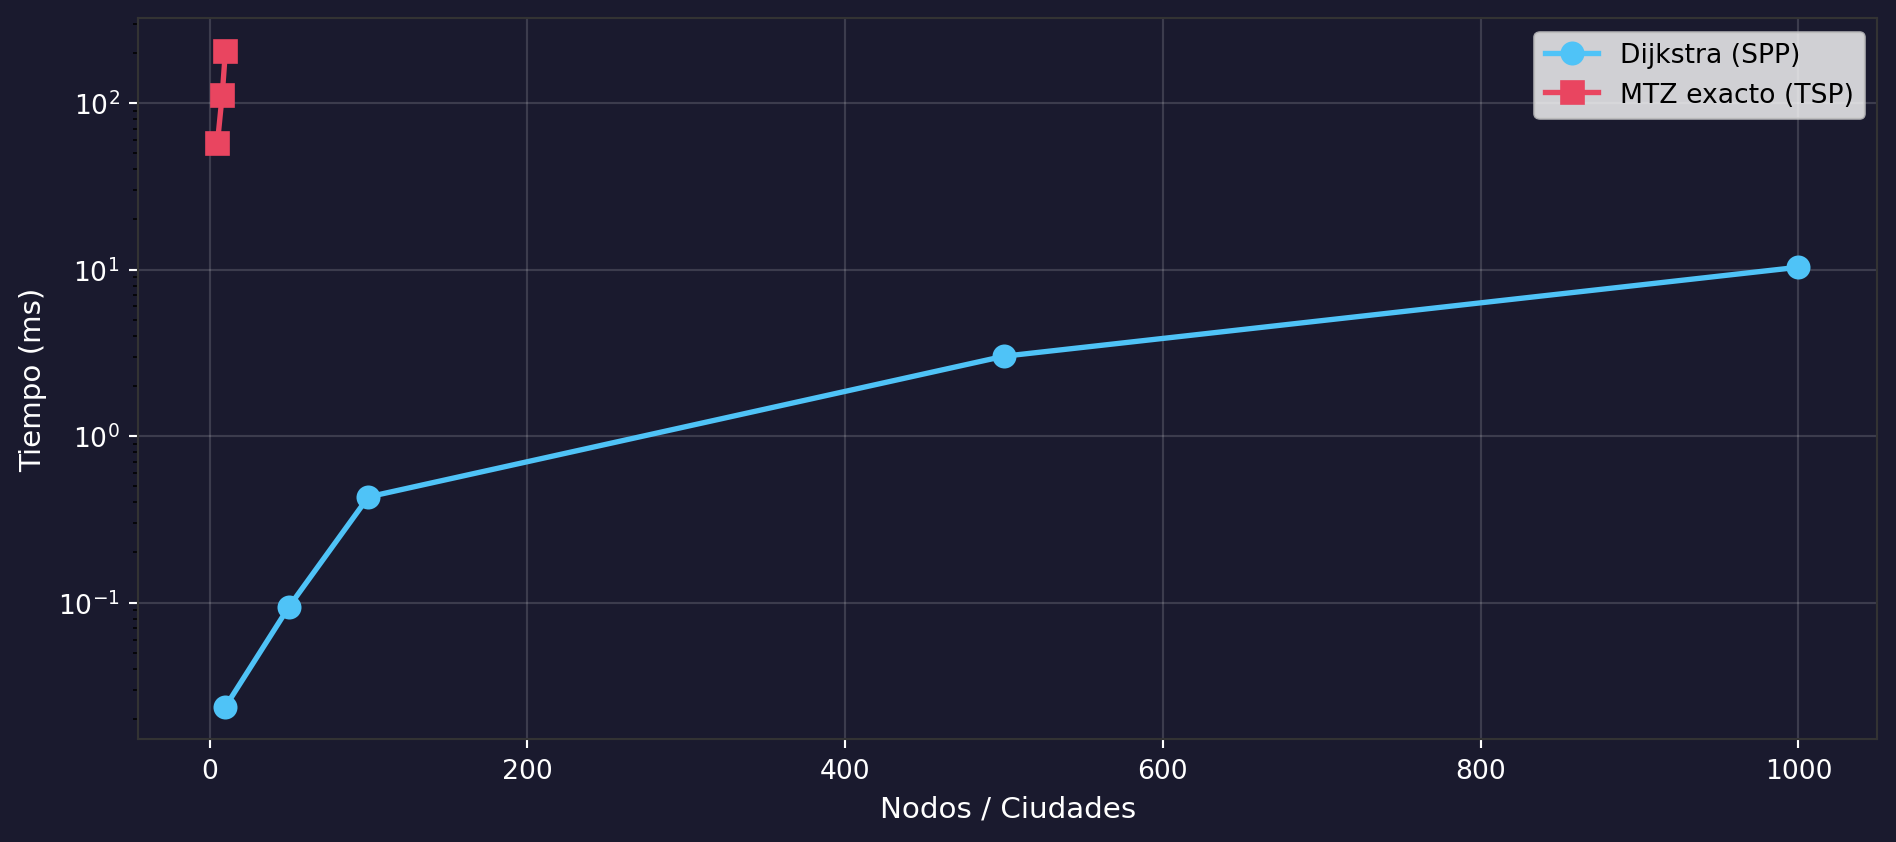
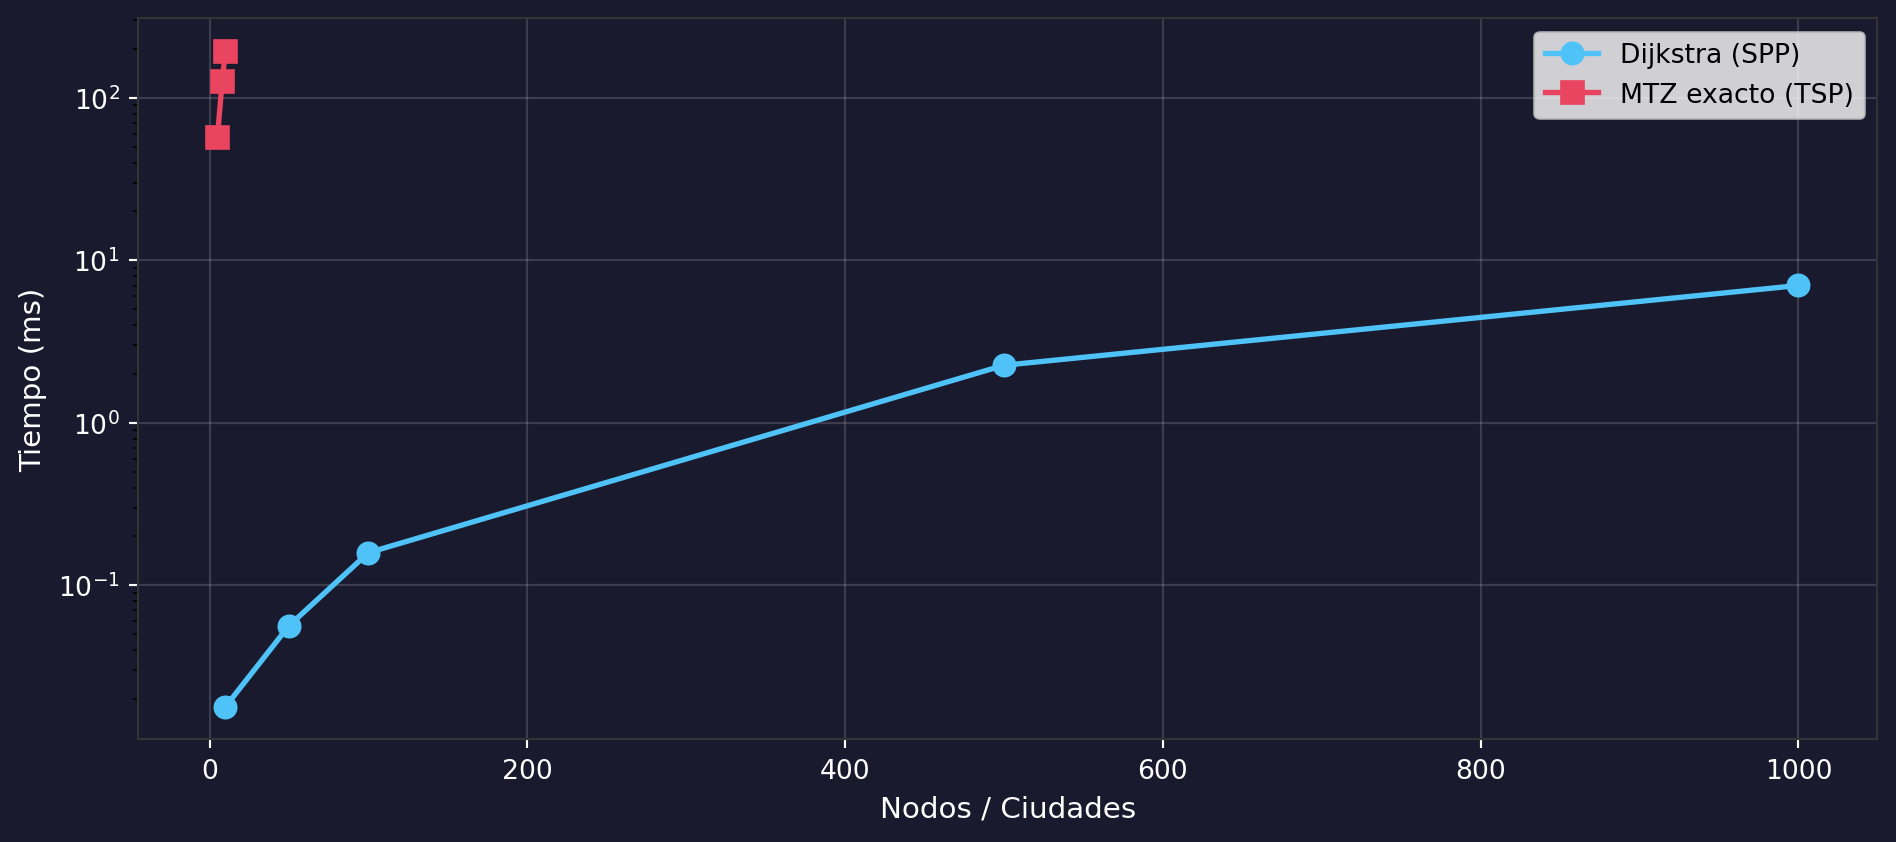
Built site for gh-pages

Changed region(s): [[0.0311, 0.2779, 0.9958, 0.8029], [0.0311, 0.0618, 0.8091, 0.1853], [0.0311, 0.6793, 0.0622, 0.7411]]

diff --git a/presentacion_parte2.html b/presentacion_parte2.html
@@ -280,7 +280,7 @@ Tópicos Especiales 1 · Doctorado en Informática
 </div>
 </div>
 </div><div class="column" style="width:45%;">
-<div id="eef235b7" class="cell" data-execution_count="1">
+<div id="75873e50" class="cell" data-execution_count="1">
 <div class="cell-output cell-output-display">
 <div class="quarto-figure quarto-figure-center">
 <figure>
@@ -362,7 +362,7 @@ Tópicos Especiales 1 · Doctorado en Informática
 </section>
 <section id="implementación-dijkstra" class="slide level2 center">
 <h2>Implementación — Dijkstra</h2>
-<div id="03a6967e" class="cell" data-execution_count="2">
+<div id="501c9f22" class="cell" data-execution_count="2">
 <div class="code-copy-outer-scaffold"><div class="sourceCode cell-code" id="cb1" data-code-line-numbers="|1-2|4-11|13-17"><pre class="sourceCode numberSource python number-lines code-with-copy"><code class="sourceCode python"><span id="cb1-1"><a aria-label="1"></a><span class="im">import</span> heapq</span>
 <span id="cb1-2"><a aria-label="2"></a></span>
 <span id="cb1-3"><a aria-label="3"></a><span class="kw">def</span> dijkstra(graph, source):</span>
@@ -385,7 +385,7 @@ Tópicos Especiales 1 · Doctorado en Informática
 </section>
 <section id="ejecución-paso-a-paso" class="slide level2 center">
 <h2>Ejecución paso a paso</h2>
-<div id="ada38e48" class="cell" data-execution_count="3">
+<div id="f89fb2c4" class="cell" data-execution_count="3">
 <details class="code-fold">
 <summary>Code</summary>
 <div class="code-copy-outer-scaffold"><div class="sourceCode cell-code" id="cb2"><pre class="sourceCode numberSource python number-lines code-with-copy"><code class="sourceCode python"><span id="cb2-1"><a aria-label="1"></a>graph <span class="op">=</span> {<span class="dv">1</span>:[(<span class="dv">2</span>,<span class="dv">7</span>),(<span class="dv">4</span>,<span class="dv">9</span>),(<span class="dv">5</span>,<span class="dv">14</span>)], <span class="dv">2</span>:[(<span class="dv">3</span>,<span class="dv">10</span>),(<span class="dv">5</span>,<span class="dv">15</span>)],</span>
@@ -421,7 +421,7 @@ Costo: 20
 </section>
 <section id="dijkstra-paso-a-paso-13" class="slide level2 smaller center">
 <h2>Dijkstra paso a paso (1/3)</h2>
-<div id="f0b581c0" class="cell" data-execution_count="4">
+<div id="1db4ac2b" class="cell" data-execution_count="4">
 <div class="cell-output cell-output-display">
 <div class="quarto-figure quarto-figure-center">
 <figure>
@@ -433,7 +433,7 @@ Costo: 20
 </section>
 <section id="dijkstra-paso-a-paso-23" class="slide level2 smaller center">
 <h2>Dijkstra paso a paso (2/3)</h2>
-<div id="41913d40" class="cell" data-execution_count="5">
+<div id="4632e1f9" class="cell" data-execution_count="5">
 <div class="cell-output cell-output-display">
 <div class="quarto-figure quarto-figure-center">
 <figure>
@@ -445,7 +445,7 @@ Costo: 20
 </section>
 <section id="dijkstra-paso-a-paso-33-resultado" class="slide level2 smaller center">
 <h2>Dijkstra paso a paso (3/3) — Resultado</h2>
-<div id="51a37dc5" class="cell" data-execution_count="6">
+<div id="7d86fd71" class="cell" data-execution_count="6">
 <div class="cell-output cell-output-display">
 <div class="quarto-figure quarto-figure-center">
 <figure>
@@ -457,7 +457,7 @@ Costo: 20
 </section>
 <section id="verificación-lp-con-pulp" class="slide level2 center">
 <h2>Verificación LP con PuLP</h2>
-<div id="b0943be9" class="cell" data-execution_count="7">
+<div id="2f86d336" class="cell" data-execution_count="7">
 <details class="code-fold">
 <summary>Code</summary>
 <div class="code-copy-outer-scaffold"><div class="sourceCode cell-code" id="cb4"><pre class="sourceCode numberSource python number-lines code-with-copy"><code class="sourceCode python"><span id="cb4-1"><a aria-label="1"></a><span class="im">from</span> pulp <span class="im">import</span> LpProblem, LpMinimize, LpVariable, LpContinuous, lpSum, value</span>
@@ -517,7 +517,7 @@ Coincide con Dijkstra: costo = 20</code></pre>
 <p>Primer abordaje computacional: <span class="citation" data-cites="dantzig1954"><a href="#/referencias" role="doc-biblioref" onclick="">[8]</a></span> (49 ciudades).</p>
 </div>
 </div><div class="column" style="width:45%;">
-<div id="3b716b1c" class="cell" data-execution_count="8">
+<div id="19e6a2da" class="cell" data-execution_count="8">
 <div class="cell-output cell-output-display">
 <div class="quarto-figure quarto-figure-center">
 <figure>
@@ -589,7 +589,7 @@ Coincide con Dijkstra: costo = 20</code></pre>
 </section>
 <section id="solución-exacta-mtz-con-pulp" class="slide level2 center">
 <h2>Solución exacta — MTZ con PuLP</h2>
-<div id="e9cde8fd" class="cell" data-execution_count="9">
+<div id="a686a375" class="cell" data-execution_count="9">
 <div class="code-copy-outer-scaffold"><div class="sourceCode cell-code" id="cb6" data-code-line-numbers="|1-4|6-11|13-18"><pre class="sourceCode numberSource python number-lines code-with-copy"><code class="sourceCode python"><span id="cb6-1"><a aria-label="1"></a><span class="im">from</span> pulp <span class="im">import</span> LpMaximize, LpBinary, LpStatus</span>
 <span id="cb6-2"><a aria-label="2"></a></span>
 <span id="cb6-3"><a aria-label="3"></a>dm <span class="op">=</span> np.array([[<span class="dv">0</span>,<span class="dv">10</span>,<span class="dv">15</span>,<span class="dv">20</span>,<span class="dv">6</span>],[<span class="dv">10</span>,<span class="dv">0</span>,<span class="dv">8</span>,<span class="dv">18</span>,<span class="dv">12</span>],</span>
@@ -617,7 +617,7 @@ Coincide con Dijkstra: costo = 20</code></pre>
 </section>
 <section id="resultado-tsp" class="slide level2 center">
 <h2>Resultado TSP</h2>
-<div id="a6458142" class="cell" data-execution_count="10">
+<div id="3ec5a655" class="cell" data-execution_count="10">
 <details class="code-fold">
 <summary>Code</summary>
 <div class="code-copy-outer-scaffold"><div class="sourceCode cell-code" id="cb8"><pre class="sourceCode numberSource python number-lines code-with-copy"><code class="sourceCode python"><span id="cb8-1"><a aria-label="1"></a>tour_r <span class="op">=</span> [<span class="dv">0</span>]<span class="op">;</span> cur <span class="op">=</span> <span class="dv">0</span></span>
@@ -639,7 +639,7 @@ Costo: 43</code></pre>
 </div>
 <div class="fragment">
 <p><strong>Verificación por enumeración exhaustiva:</strong></p>
-<div id="c4301aac" class="cell" data-execution_count="11">
+<div id="000aca29" class="cell" data-execution_count="11">
 <details class="code-fold">
 <summary>Code</summary>
 <div class="code-copy-outer-scaffold"><div class="sourceCode cell-code" id="cb10"><pre class="sourceCode numberSource python number-lines code-with-copy"><code class="sourceCode python"><span id="cb10-1"><a aria-label="1"></a><span class="im">import</span> itertools</span>
@@ -664,7 +664,7 @@ Peor tour: costo = 79</code></pre>
 </section>
 <section id="tsp-paso-a-paso-vecino-más-cercano" class="slide level2 smaller center">
 <h2>TSP paso a paso — Vecino más cercano</h2>
-<div id="38d985c5" class="cell" data-execution_count="12">
+<div id="e5ac5fa0" class="cell" data-execution_count="12">
 <div class="cell-output cell-output-display">
 <div class="quarto-figure quarto-figure-center">
 <figure>
@@ -676,7 +676,7 @@ Peor tour: costo = 79</code></pre>
 </section>
 <section id="tsp-paso-a-paso-mejora-2-opt" class="slide level2 smaller center">
 <h2>TSP paso a paso — Mejora 2-opt</h2>
-<div id="c2e30a42" class="cell" data-execution_count="13">
+<div id="78c5808a" class="cell" data-execution_count="13">
 <div class="cell-output cell-output-display">
 <div class="quarto-figure quarto-figure-center">
 <figure>
@@ -688,7 +688,7 @@ Peor tour: costo = 79</code></pre>
 </section>
 <section id="heurísticas-vecino-más-cercano-2-opt-croes1958" class="slide level2 center">
 <h2>Heurísticas: Vecino más cercano + 2-opt <span class="citation" data-cites="croes1958"><a href="#/referencias" role="doc-biblioref" onclick="">[14]</a></span></h2>
-<div id="73bdd979" class="cell" data-execution_count="14">
+<div id="7a71fcbb" class="cell" data-execution_count="14">
 <details class="code-fold">
 <summary>Code</summary>
 <div class="code-copy-outer-scaffold"><div class="sourceCode cell-code" id="cb12"><pre class="sourceCode numberSource python number-lines code-with-copy"><code class="sourceCode python"><span id="cb12-1"><a aria-label="1"></a><span class="kw">def</span> nn_tsp(dm, start<span class="op">=</span><span class="dv">0</span>):</span>
@@ -728,7 +728,7 @@ Gap NN: 23.3%  |  Gap 2-opt: 0.0%</code></pre>
 </section>
 <section id="escalabilidad-dijkstra-vs-mtz" class="slide level2 center">
 <h2>Escalabilidad: Dijkstra vs MTZ</h2>
-<div id="a654d748" class="cell" data-execution_count="15">
+<div id="743e056e" class="cell" data-execution_count="15">
 <details class="code-fold">
 <summary>Code</summary>
 <div class="code-copy-outer-scaffold"><div class="sourceCode cell-code" id="cb14"><pre class="sourceCode numberSource python number-lines code-with-copy"><code class="sourceCode python"><span id="cb14-1"><a aria-label="1"></a><span class="im">import</span> time</span>
@@ -805,7 +805,7 @@ Gap NN: 23.3%  |  Gap 2-opt: 0.0%</code></pre>
 </section>
 <section id="spp-vs-tsp-resumen" class="slide level2 center">
 <h2>SPP vs TSP — Resumen</h2>
-<div id="b04a9622" class="cell" data-execution_count="16">
+<div id="f372c8e2" class="cell" data-execution_count="16">
 <div class="cell-output cell-output-display">
 <div class="quarto-figure quarto-figure-center">
 <figure>

diff --git a/presentacion_parte1.html b/presentacion_parte1.html
@@ -293,7 +293,7 @@ Tópicos Especiales 1 · Doctorado en Informática
 <p>Un chatbot debe presentar como máximo <strong>4 preguntas</strong> de entre <strong>9 candidatas</strong> al inicio de la conversación.</p>
 </div>
 </div><div class="column" style="width:50%;">
-<div id="81b8d05f" class="cell" data-execution_count="1">
+<div id="6cbb3978" class="cell" data-execution_count="1">
 <div class="cell-output cell-output-display">
 <div class="quarto-figure quarto-figure-center">
 <figure>
@@ -421,7 +421,7 @@ Tópicos Especiales 1 · Doctorado en Informática
 </section>
 <section id="parámetros-del-modelo" class="slide level2 center">
 <h2>Parámetros del modelo</h2>
-<div id="4013d69d" class="cell" data-execution_count="2">
+<div id="111d3035" class="cell" data-execution_count="2">
 <div class="cell-output cell-output-display">
 <div class="quarto-figure quarto-figure-center">
 <figure>
@@ -545,7 +545,7 @@ Tópicos Especiales 1 · Doctorado en Informática
 </section>
 <section id="datos-y-utilidades" class="slide level2 center">
 <h2>Datos y utilidades</h2>
-<div id="e4252786" class="cell" data-execution_count="3">
+<div id="3917389a" class="cell" data-execution_count="3">
 <div class="code-copy-outer-scaffold"><div class="sourceCode cell-code" id="cb1" data-code-line-numbers="|3-5|7-10|13"><pre class="sourceCode numberSource python number-lines code-with-copy"><code class="sourceCode python"><span id="cb1-1"><a aria-label="1"></a><span class="im">import</span> numpy <span class="im">as</span> np</span>
 <span id="cb1-2"><a aria-label="2"></a></span>
 <span id="cb1-3"><a aria-label="3"></a>r <span class="op">=</span> np.array([<span class="fl">0.90</span>, <span class="fl">0.80</span>, <span class="fl">0.72</span>, <span class="fl">0.89</span>, <span class="fl">0.80</span>, <span class="fl">0.70</span>, <span class="fl">0.92</span>, <span class="fl">0.77</span>, <span class="fl">0.75</span>])</span>
@@ -576,7 +576,7 @@ Q9 (Objeti.): u = 0.6505</code></pre>
 </section>
 <section id="solución-lp-con-scipy.optimize.linprog" class="slide level2 center">
 <h2>Solución LP con <code>scipy.optimize.linprog</code></h2>
-<div id="a4cff4e9" class="cell" data-execution_count="4">
+<div id="d9eba922" class="cell" data-execution_count="4">
 <div class="code-copy-outer-scaffold"><div class="sourceCode cell-code" id="cb3" data-code-line-numbers="|1-2|4-12|14-15"><pre class="sourceCode numberSource python number-lines code-with-copy"><code class="sourceCode python"><span id="cb3-1"><a aria-label="1"></a><span class="im">from</span> scipy.optimize <span class="im">import</span> linprog</span>
 <span id="cb3-2"><a aria-label="2"></a>n, l_vec <span class="op">=</span> <span class="dv">9</span>, np.array([<span class="fl">0.75</span>,<span class="fl">0.55</span>,<span class="fl">0.70</span>,<span class="fl">0.80</span>,<span class="fl">0.45</span>,<span class="fl">0.40</span>,<span class="fl">1.00</span>,<span class="fl">0.65</span>,<span class="fl">0.50</span>])</span>
 <span id="cb3-3"><a aria-label="3"></a></span>
@@ -605,7 +605,7 @@ Q9 (Objeti.): u = 0.6505</code></pre>
 </section>
 <section id="solución-ilp-con-pulp" class="slide level2 center">
 <h2>Solución ILP con PuLP</h2>
-<div id="675aba03" class="cell" data-execution_count="5">
+<div id="8f473fa5" class="cell" data-execution_count="5">
 <div class="code-copy-outer-scaffold"><div class="sourceCode cell-code" id="cb5" data-code-line-numbers="|1-4|6-13|15-20"><pre class="sourceCode numberSource python number-lines code-with-copy"><code class="sourceCode python"><span id="cb5-1"><a aria-label="1"></a><span class="im">from</span> pulp <span class="im">import</span> (LpMaximize, LpProblem, LpVariable,</span>
 <span id="cb5-2"><a aria-label="2"></a>                  lpSum, value, LpBinary)</span>
 <span id="cb5-3"><a aria-label="3"></a></span>
@@ -641,7 +641,7 @@ Latencia: 2.60/2.80</code></pre>
 </section>
 <section id="utilidad-por-pregunta-solución-ilp" class="slide level2 center">
 <h2>Utilidad por pregunta — Solución ILP</h2>
-<div id="2bea9062" class="cell" data-execution_count="6">
+<div id="3e09edc2" class="cell" data-execution_count="6">
 <details class="code-fold">
 <summary>Code</summary>
 <div class="code-copy-outer-scaffold"><div class="sourceCode cell-code" id="cb7"><pre class="sourceCode numberSource python number-lines code-with-copy"><code class="sourceCode python"><span id="cb7-1"><a aria-label="1"></a><span class="im">import</span> matplotlib.pyplot <span class="im">as</span> plt</span>
@@ -690,7 +690,7 @@ Latencia: 2.60/2.80</code></pre>
 </section>
 <section id="comparación-lp-vs-ilp" class="slide level2 center">
 <h2>Comparación LP vs ILP</h2>
-<div id="a107171a" class="cell" data-execution_count="7">
+<div id="e98d5ad9" class="cell" data-execution_count="7">
 <details class="code-fold">
 <summary>Code</summary>
 <div class="code-copy-outer-scaffold"><div class="sourceCode cell-code" id="cb8"><pre class="sourceCode numberSource python number-lines code-with-copy"><code class="sourceCode python"><span id="cb8-1"><a aria-label="1"></a>fig, axes <span class="op">=</span> plt.subplots(<span class="dv">1</span>, <span class="dv">2</span>, figsize<span class="op">=</span>(<span class="dv">12</span>, <span class="fl">4.5</span>))</span>
@@ -735,7 +735,7 @@ Latencia: 2.60/2.80</code></pre>
 </section>
 <section id="uso-de-recursos" class="slide level2 center">
 <h2>Uso de recursos</h2>
-<div id="d7663a40" class="cell" data-execution_count="8">
+<div id="550a7f56" class="cell" data-execution_count="8">
 <details class="code-fold">
 <summary>Code</summary>
 <div class="code-copy-outer-scaffold"><div class="sourceCode cell-code" id="cb9"><pre class="sourceCode numberSource python number-lines code-with-copy"><code class="sourceCode python"><span id="cb9-1"><a aria-label="1"></a>fig, ax <span class="op">=</span> plt.subplots(figsize<span class="op">=</span>(<span class="dv">9</span>, <span class="fl">4.5</span>))</span>
@@ -868,7 +868,7 @@ Latencia: 2.60/2.80</code></pre>
 </section>
 <section id="variación-de-parámetros" class="slide level2 center">
 <h2>Variación de parámetros</h2>
-<div id="d380870d" class="cell" data-execution_count="9">
+<div id="a5450bed" class="cell" data-execution_count="9">
 <details class="code-fold">
 <summary>Code</summary>
 <div class="code-copy-outer-scaffold"><div class="sourceCode cell-code" id="cb10"><pre class="sourceCode numberSource python number-lines code-with-copy"><code class="sourceCode python"><span id="cb10-1"><a aria-label="1"></a><span class="im">from</span> pulp <span class="im">import</span> PULP_CBC_CMD</span>
